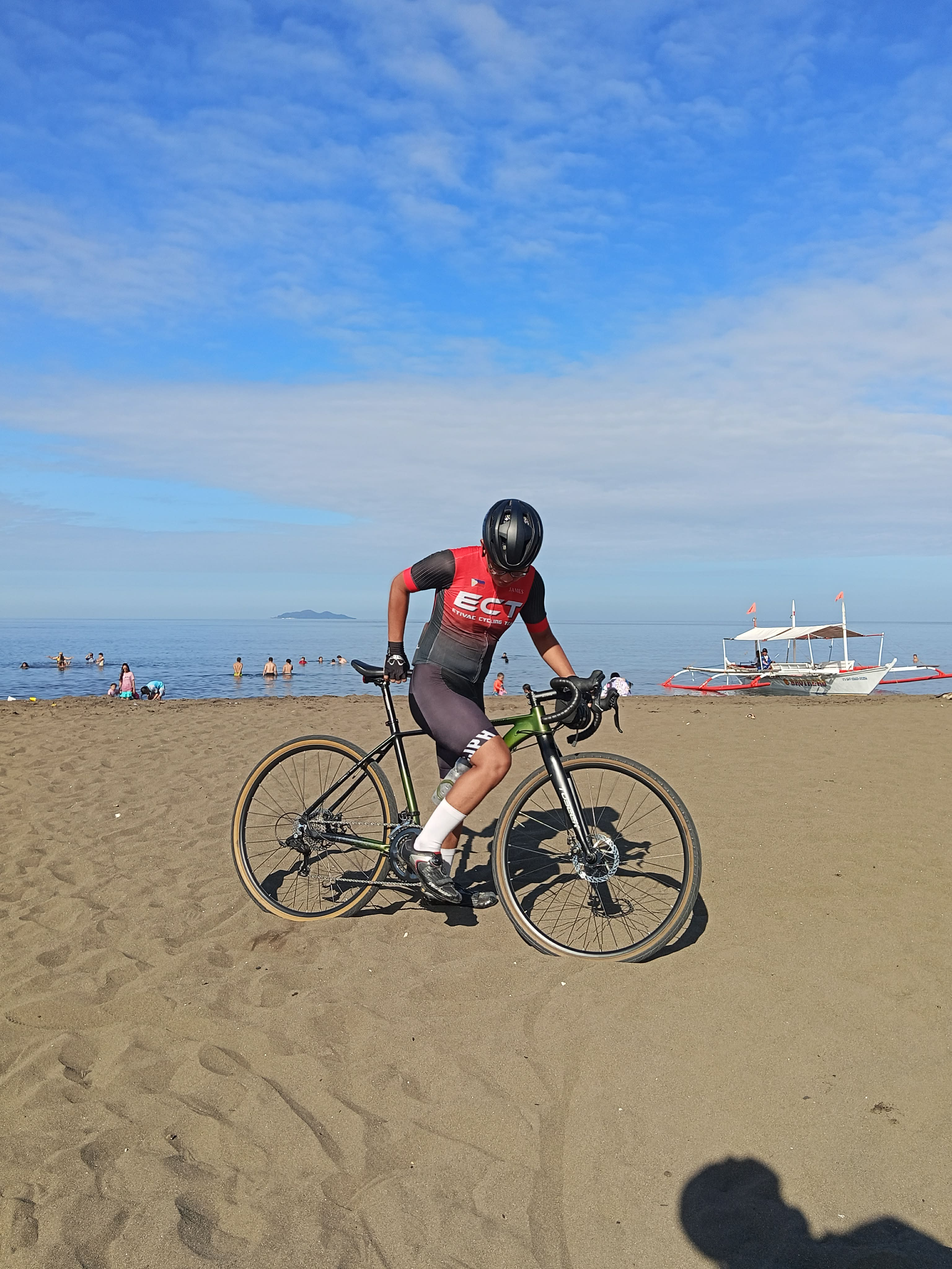
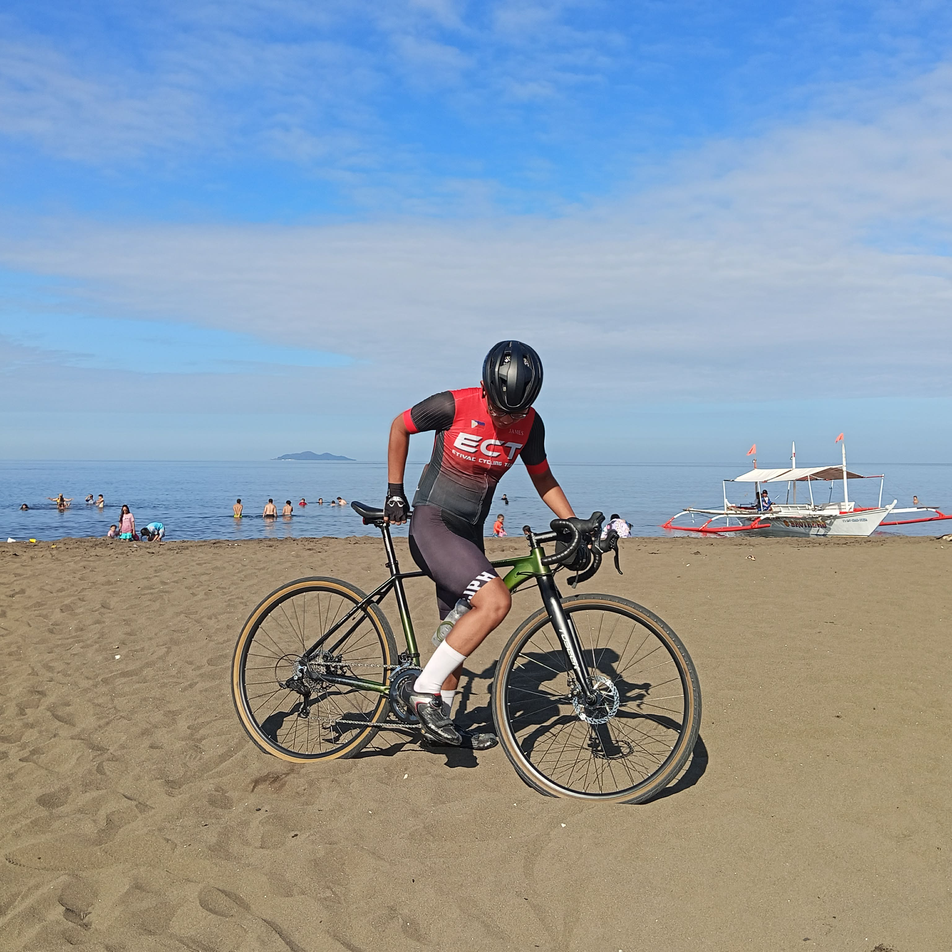
Fixes on overlapping images

diff --git a/style.css b/style.css
@@ -192,6 +192,8 @@ section {
         flex-direction: column;
         padding: 0 5%;
         text-align: center;
+        height: auto; /* Allow content to expand */
+        min-height: 100vh;
     }
 
     .text-wrapper {
@@ -216,7 +218,7 @@ section {
     .profile {
         position: relative; 
         left: 0;
-        top: 0;
+        top: -50px;
         width: 100%;   
         height: auto;   
         aspect-ratio: 435/650; 
@@ -321,6 +323,11 @@ section {
     border: 1px solid #000;
 }
 
+.about-image img {
+    width: 100%;
+    height: auto;
+}
+
 .animated-photo {
     width: 100%;
     height: auto;
@@ -329,18 +336,12 @@ section {
 }
 
 .about-image:hover .animated-photo {
-    transform: scale(1.5); /* zoom optimization */
+    transform: scale(1.3); /* zoom optimization */
 }
 
 .about-image:hover {
     box-shadow: 0 10px 30px rgba(0, 0, 0, 0.95); /* Soft depth on hover */
     transition: box-shadow 0.4s ease;
-}
-
-.about-image img {
-    width: 100%;
-    height: auto;
-    border: 1px solid #000;
 }
 
 .about-content {
@@ -373,7 +374,7 @@ section {
 
 .minimal-line {
     margin-top: 30px;
-    width: 60px;
+    width: 100px;
     height: 2px;
     background-color: #000;
 }
@@ -388,4 +389,15 @@ section {
     .minimal-line {
         margin: 30px auto 0;
     }
+
+    #about-me {
+        padding: 60px 5%;
+        padding-top: 450px;
+    }
+
+    .about-image img {
+    width: 100%;
+    height: auto;
+    border: 1px solid #000;
+}
 }
